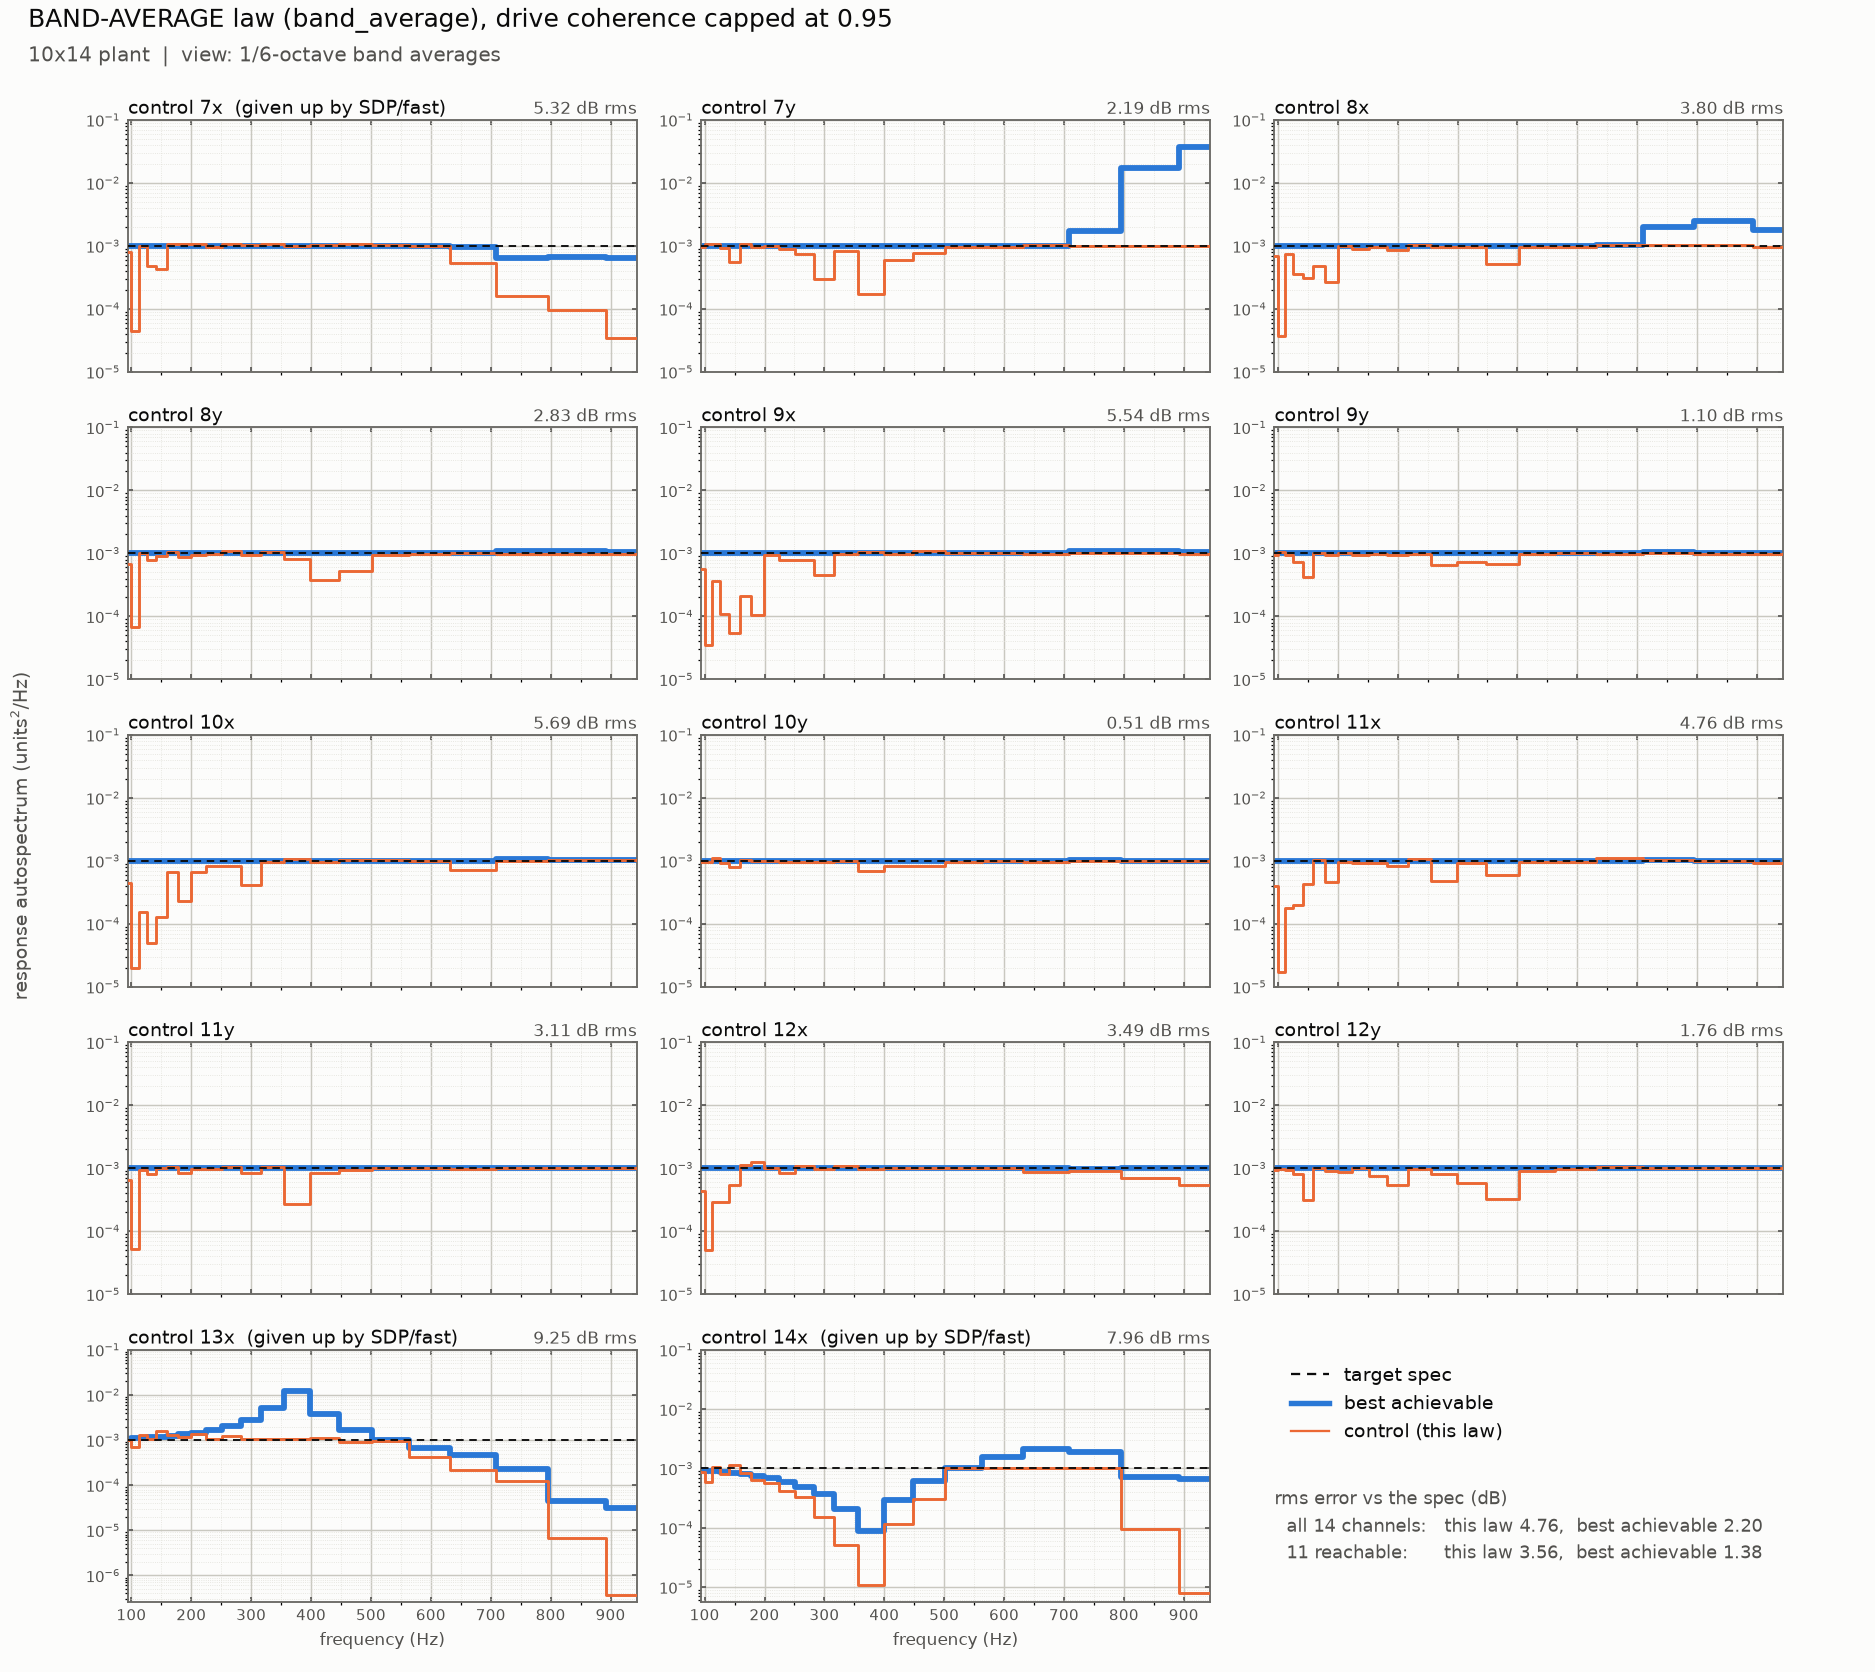
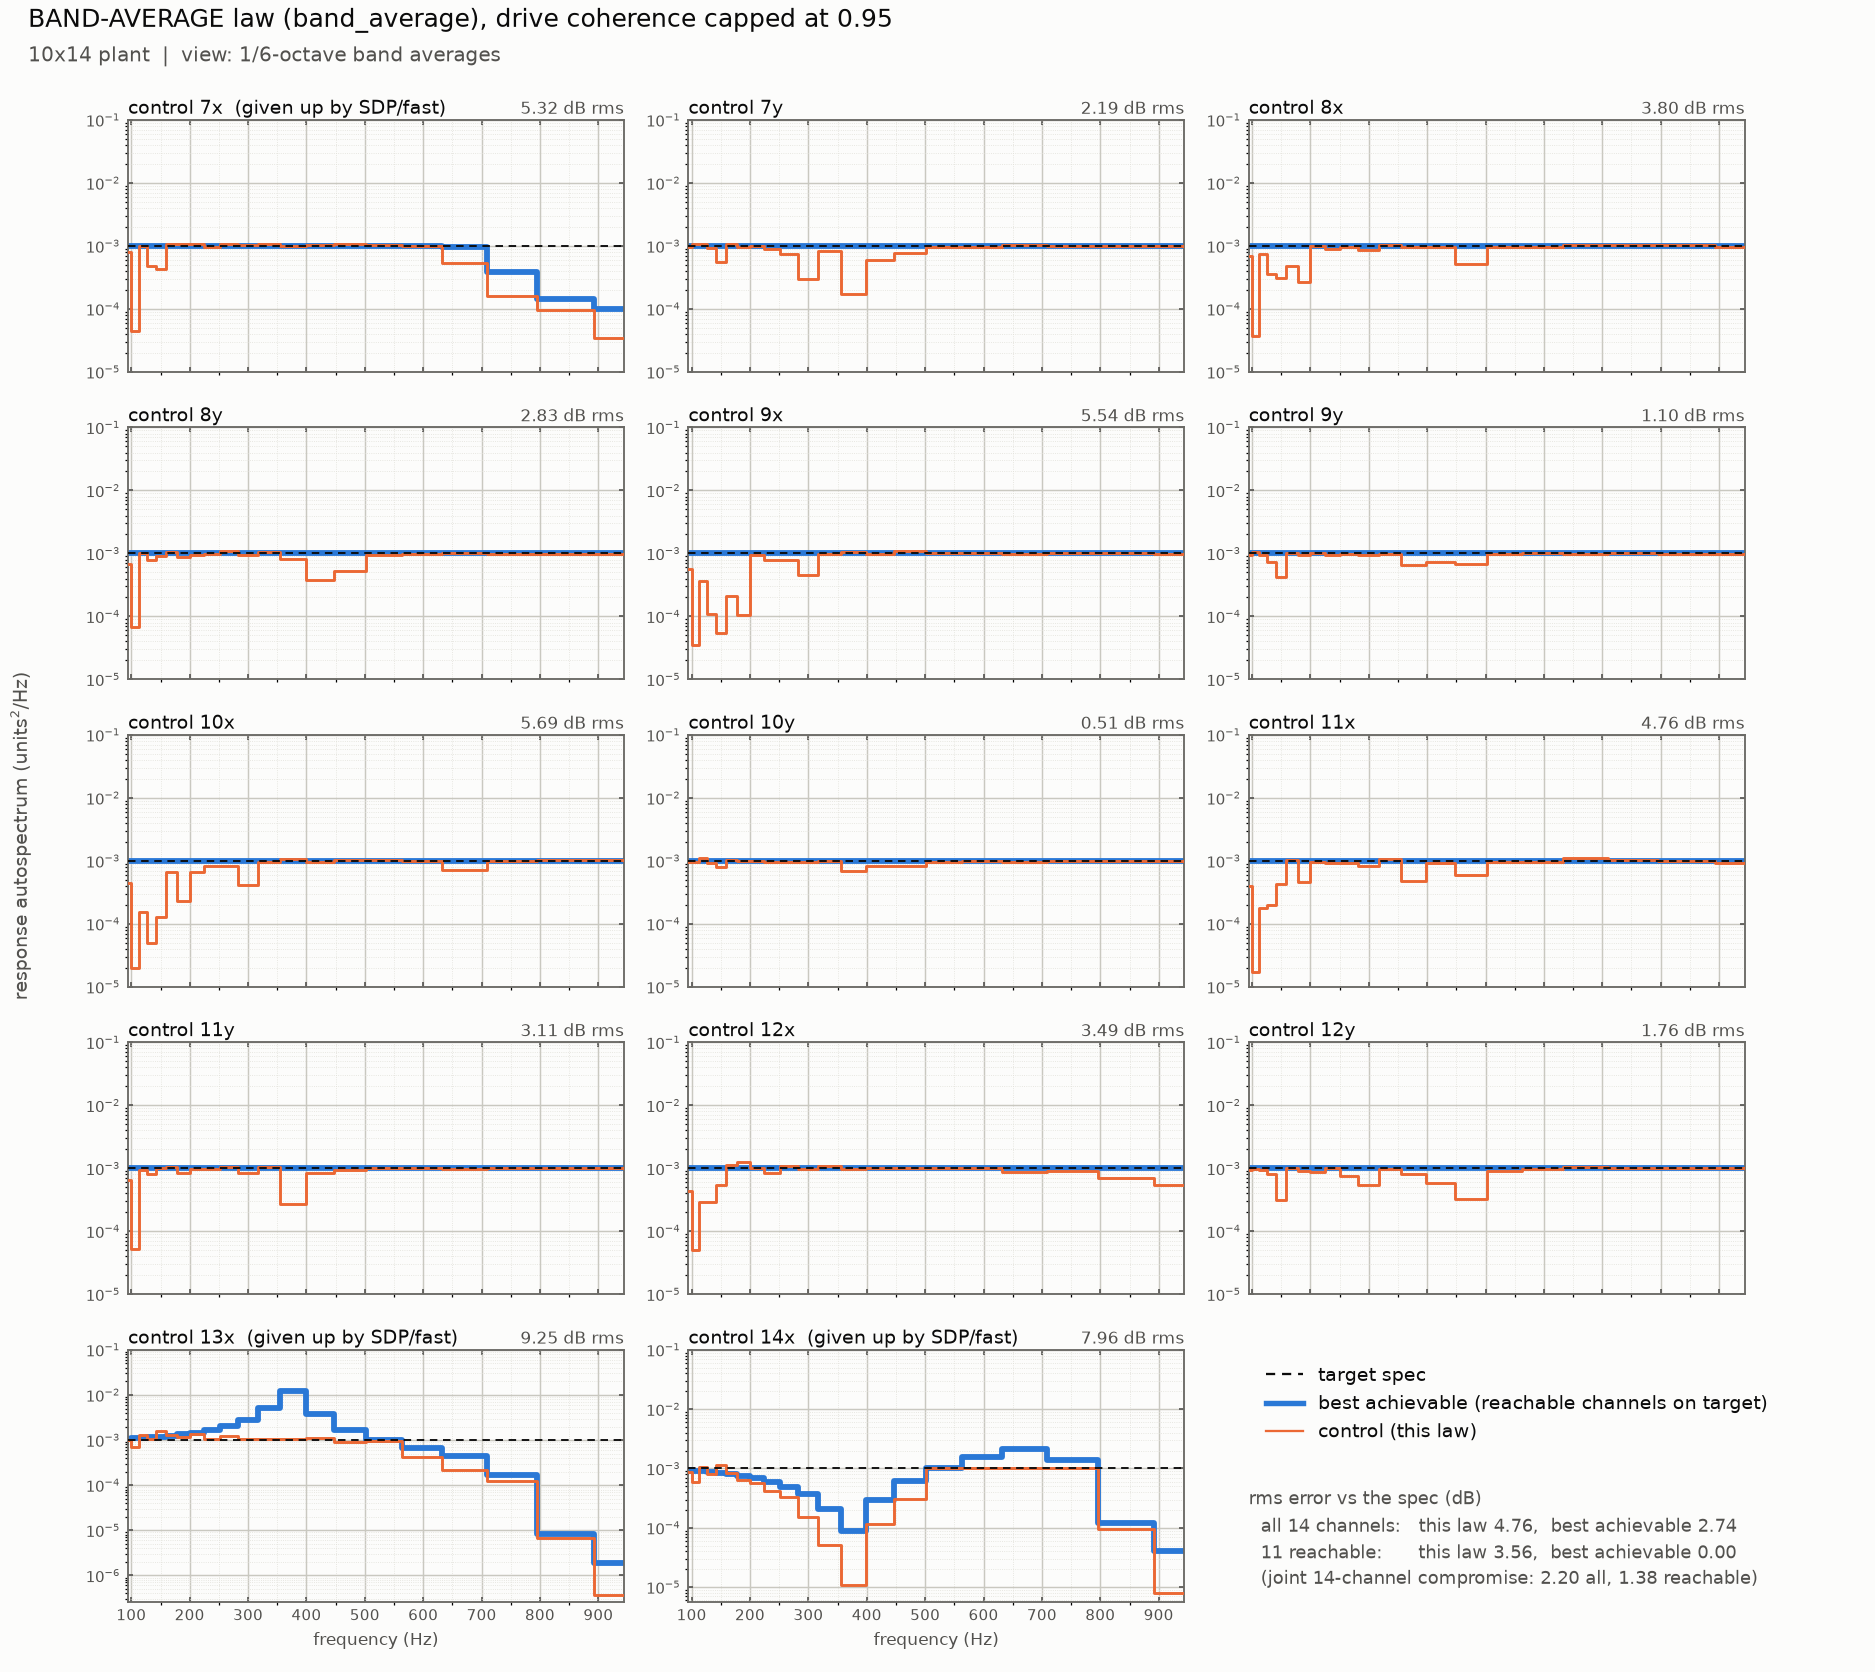
Plots: best achievable holds the reachable channels on target
The reference curve was the joint rms-dB optimum over all 14 channels, which trades the 11
channels the SDP/fast laws reach against the three they cannot, so on those 11 the control
could look better than 'best achievable'. reference_spectra() now solves, per line, for the
response with the reachable channels held on target (weighted 100:1, within 0.01 dB) and the
others as close as they can then get; the joint optimum is quoted in each plot's key and as
a row of the score tables. The SDP law is within 0.27 dB of the new reference on all 14.

diff --git a/control_laws/tests/plot_law_spectra.py b/control_laws/tests/plot_law_spectra.py
@@ -7,14 +7,17 @@ the target spec, the best achievable spec, and what the law produced.
 
 One PNG per law, one panel per control channel (file names: see SLUGS and plot_path):
   target spec      dashed, the specification autospectrum
-  best achievable  achievable_response.achievable_diagonal: per line, the diagonal that
-                   minimizes the rms dB error over ALL channels at once (the spec the rig
-                   runs are pointed at).  It trades error between channels, so on the
-                   channels a law can reach it may sit off the target where the law does not
+  best achievable the best a law could do, per line, with the channels the SDP and fast laws
+                   reach (11 of 14 on 10x14) HELD ON TARGET and the rest (7x, 13x, 14x on 10x14)
+                   as close as they can then get, in rms dB.  reference_spectra() solves it with
+                   achievable_response's dB residuals, weighted 100:1 toward the reachable channels.
+                   The key also quotes the JOINT optimum, achievable_response.achievable_diagonal:
+                   the best rms dB over all channels at once, which trades the reachable channels
+                   off against the others and so is not a floor for them
   control          the TRUE response autospectrum diag(H X H^H) after the last cycle
 
-Each law runs its defaults (band_average: df 5, octave order 6, drive RMS limit off), closed loop, as in compare_optdiag_frame.py (the FRF is held
-fixed, responses are 'measured' from n_frames Gaussian frames).  The octave law is switched
+Each law runs its defaults (band_average: df 5, octave order 6, drive RMS limit off), closed loop, as in
+compare_optdiag_frame.py (the FRF is held fixed, responses are 'measured' from n_frames Gaussian frames).  The octave law is switched
 into octave mode with set_test_level_db(0), since nothing in Rattlesnake does that yet.
 
 Run in the 'rattlesnake' conda env with PYTHONPATH=src.
@@ -35,7 +38,9 @@ sys.path.insert(0, HERE)
 sys.path.insert(0, os.path.dirname(HERE))
 import compare_optdiag_frame as cf                     # noqa: E402
 from frame_plant import frame_plant                    # noqa: E402
+import achievable_response as ar                       # noqa: E402
 from achievable_response import achievable_diagonal    # noqa: E402
+from scipy.optimize import least_squares               # noqa: E402
 from rattlesnake.utilities import load_control_module  # noqa: E402
 
 INK, INK2, GRID, SURFACE = '#0b0b0b', '#52514e', '#e1e0d9', '#fcfcfb'
@@ -77,6 +82,38 @@ def plot_path(outdir, plant, slug, view):
     return os.path.join(outdir, f'spectra_{plant}_{slug}_{view}.png')
 
 
+def _held_line(Hb, y, reach, weight, max_nfev=300):
+    """One line: diag(H X H^H) in rms dB, the `reach` channels weighted `weight` to 1."""
+    from_L = lambda v: ar._unpack(v, Hb.shape[1], Hb.shape[1])
+    N = Hb.shape[1]
+    y_log = np.log(np.maximum(y, 1e-300))
+    w = np.where(reach, weight, 1.0)
+    fun = lambda v: w*ar._resid(v, Hb, y_log, N, N)
+    jac = lambda v: w[:, None]*ar._jac(v, Hb, y_log, N, N)
+    best = None
+    for L0 in (ar._init_pinv(Hb[reach], y[reach], 1e-8), ar._init_pinv(Hb, y, 1e-8)):
+        sol = least_squares(fun, ar._pack(L0), jac=jac, method='trf', max_nfev=max_nfev)
+        if best is None or sol.cost < best.cost:
+            best = sol
+    return ar._diag_response(Hb, from_L(best.x))[0]
+
+
+def reference_spectra(p, lost, weight=100.0):
+    """(held, joint), each (F, M), NaN off the specified band.
+
+    held   best achievable with the reachable channels (~lost) held on target (weighted `weight`:1,
+           which keeps them within 0.01 dB) and the others as close as they can then get
+    joint  achievable_response.achievable_diagonal: best rms dB over all channels at once"""
+    H, sel = p['H'], p['band']
+    spec = np.real(np.einsum('fii->fi', p['spec']))
+    idx = np.flatnonzero(sel)
+    held = np.full(spec.shape, np.nan)
+    for i in idx:
+        held[i] = _held_line(H[i], spec[i], ~lost, weight)
+    joint = achievable_diagonal(H, spec, line_indices=idx, compute_minimax=False)['achieved']
+    return held, joint
+
+
 def response(H, X):
     return np.real(np.einsum('fmn,fnk,fmk->fm', H, X, H.conj()))
 
@@ -106,7 +143,7 @@ def panel(ax, f, target, best, got, label, given_up, err_db, steps=False):
     ax.set_title(f'{err_db:.2f} dB rms', loc='right', fontsize=8, color=INK2, pad=3)
 
 
-def figure(name, p, X, best, lost, names, plant, outpath, bands=None):
+def figure(name, p, X, best, lost, names, plant, outpath, bands=None, joint=None):
     """bands = (masks, centers): plot the 1/6-octave band AVERAGES (power mean over each band's lines)
     instead of every line."""
     f, sel = p['f'], p['band']
@@ -117,6 +154,7 @@ def figure(name, p, X, best, lost, names, plant, outpath, bands=None):
         masks, fb = bands
         grid = lambda a: np.array([a[m].mean(axis=0) for m in masks])
     spec, got, bst = grid(spec_full), grid(response(p['H'], X)), grid(best)
+    jnt = None if joint is None else grid(joint)
     err = np.sqrt(np.mean((10*np.log10(got/spec))**2, axis=0))
     M = spec.shape[1]
     ncol = 3
@@ -135,15 +173,16 @@ def figure(name, p, X, best, lost, names, plant, outpath, bands=None):
     handles = [plt.Line2D([], [], color=INK, lw=1.1, ls=(0, (4, 3))),
                plt.Line2D([], [], color=C_ACHIEVABLE, lw=2.6),
                plt.Line2D([], [], color=C_CONTROL, lw=1.1)]
-    key.legend(handles, ['target spec', 'best achievable', 'control (this law)'], loc='upper left',
+    key.legend(handles, ['target spec', 'best achievable (reachable channels on target)', 'control (this law)'], loc='upper left',
                frameon=False, fontsize=9, labelcolor=INK)
     reach = ~lost
     rms_db = lambda y, cols: np.sqrt(np.mean((10*np.log10(y[:, cols]/spec[:, cols]))**2))
     everyone = np.ones(M, dtype=bool)
+    joint_txt = '' if jnt is None else f'\n  (joint 14-channel compromise: {rms_db(jnt, everyone):.2f} all, {rms_db(jnt, reach):.2f} reachable)'
     key.text(0.0, 0.46,
              'rms error vs the spec (dB)\n'
              f'  all {M} channels:   this law {rms_db(got, everyone):.2f},  best achievable {rms_db(bst, everyone):.2f}\n'
-             f'  {int(reach.sum())} reachable:      this law {rms_db(got, reach):.2f},  best achievable {rms_db(bst, reach):.2f}',
+             f'  {int(reach.sum())} reachable:      this law {rms_db(got, reach):.2f},  best achievable {rms_db(bst, reach):.2f}' + joint_txt,
              transform=key.transAxes, fontsize=8.5, color=INK2, va='top', linespacing=1.5)
     fig.supylabel('response autospectrum (units$^2$/Hz)', fontsize=9, color=INK2, x=0.005)
     view = f"every {p['df']:g} Hz line" if bands is None else '1/6-octave band averages'
@@ -154,7 +193,7 @@ def figure(name, p, X, best, lost, names, plant, outpath, bands=None):
     plt.close(fig)
 
 
-def score_table(p, runs, lost, spec_d):
+def score_table(p, runs, lost, spec_d, refs=()):
     """Printed table: rms dB error per law, per line and per 1/6-octave band (100-1000 Hz)."""
     f, H, sel = p['f'], p['H'], p['band']
     with contextlib.redirect_stdout(io.StringIO()):
@@ -170,6 +209,10 @@ def score_table(p, runs, lost, spec_d):
         line = 10*np.log10(y[sel]/spec_d[sel])
         band = np.array([10*np.log10(y[m].mean(0)/spec_d[m].mean(0)) for m in masks])
         print(f'{label:72s} {rms(line, reach):14.2f} {rms(line, everyone):13.2f} {rms(band, reach):15.2f} {rms(band, everyone):13.2f}')
+    for label, y in refs:                                 # reference spectra scored the same way
+        line = 10*np.log10(y[sel]/spec_d[sel])
+        band = np.array([10*np.log10(y[m].mean(0)/spec_d[m].mean(0)) for m in masks])
+        print(f'{label:72s} {rms(line, reach):14.2f} {rms(line, everyone):13.2f} {rms(band, reach):15.2f} {rms(band, everyone):13.2f}')
 
 
 def main():
@@ -182,8 +225,6 @@ def main():
     p = frame_plant(plant)
     names = [f"{n}{'xy'[d-1]}" for n, d in p['controls']]
     spec_d = np.real(np.einsum('fii->fi', p['spec']))
-    print('best achievable (per line, rms dB over all channels) ...', flush=True)
-    best = achievable_diagonal(p['H'], spec_d, line_indices=np.flatnonzero(p['band']))['achieved']
     runs = []
     for label, cls, params in laws():
         print('running', label, flush=True)
@@ -191,10 +232,13 @@ def main():
     sel = p['band']
     final = np.array([np.sqrt(np.mean((10*np.log10(response(p['H'], X)[sel]/spec_d[sel]))**2, axis=0)) for _, X in runs])
     lost = np.all(final[:2] > 3.0, axis=0)               # channels the SDP and fast laws both give up
-    score_table(p, runs, lost, spec_d)
+    print('best achievable references ...', flush=True)
+    best, joint = reference_spectra(p, lost)
+    score_table(p, runs, lost, spec_d, refs=[('best achievable (reachable held on target)', best),
+                                               ('joint 14-channel compromise', joint)])
     for (label, X), short in zip(runs, SLUGS):
         path = plot_path(outdir, plant, short, 'lines')
-        figure(label, p, X, best, lost, names, plant, path)
+        figure(label, p, X, best, lost, names, plant, path, joint=joint)
         print('wrote', path)
 
 

diff --git a/control_laws/tests/plot_octave_exact_c.py b/control_laws/tests/plot_octave_exact_c.py
@@ -17,11 +17,11 @@ from achievable_response import achievable_diagonal
 p = frame_plant('10x14'); spec_d = np.real(np.einsum('fii->fi', p['spec']))
 names = [f"{n}{'xy'[d-1]}" for n, d in p['controls']]
 out = os.path.join(os.path.dirname(os.path.dirname(HERE)), 'examples', 'tendrive14resp', 'results', 'plots')
-best = achievable_diagonal(p['H'], spec_d, line_indices=np.flatnonzero(p['band']))['achieved']
 laws = pl.laws()
 X = {lab: cf.run(p, cls, par, 15, 20)['X'] for lab, cls, par in laws[:2]}          # SDP, fast -> the given-up set
 fin = np.array([np.sqrt(np.mean((10*np.log10(pl.response(p['H'], x)[p['band']]/spec_d[p['band']]))**2, axis=0)) for x in X.values()])
 lost = np.all(fin > 3.0, axis=0)
+best, joint = pl.reference_spectra(p, lost)
 shipped = cf.run(p, laws[2][1], pl.OCTAVE_PARAMS, 15, 20)['X']
 exact = cf.run(p, OctaveExactC, pl.OCTAVE_PARAMS, 15, 20)['X']
 f = p['f']
@@ -35,7 +35,7 @@ T0 = laws[2][0]                                  # the octave law as shipped
 for title, Xx, slug, view, b in ((T1, exact, 'octave_exactC_experiment', 'lines', None), (T1, exact, 'octave_exactC_experiment', 'bands', bands),
                                  (T0, shipped, 'octave_law', 'bands', bands)):
     path = pl.plot_path(out, '10x14', slug, view)
-    pl.figure(title, p, Xx, best, lost, names, '10x14', path, bands=b); print('wrote', path)
+    pl.figure(title, p, Xx, best, lost, names, '10x14', path, bands=b, joint=joint); print('wrote', path)
 
 reach = ~lost; everyone = np.ones(lost.size, bool)
 rms = lambda a, c: float(np.sqrt(np.mean(a[:, c]**2)))
@@ -44,5 +44,7 @@ for lab, Xx in (('SDP', X[laws[0][0]]), ('fast', X[laws[1][0]]), ('octave as shi
     y = pl.response(p['H'], Xx); line = 10*np.log10(y[p['band']]/spec_d[p['band']])
     band = np.array([10*np.log10(y[m].mean(0)/spec_d[m].mean(0)) for m in bands[0]])
     print(f"{lab:44s} {rms(line, reach):8.2f} {rms(line, everyone):8.2f} {rms(band, reach):8.2f} {rms(band, everyone):8.2f}")
-bb = np.array([10*np.log10(best[m].mean(0)/spec_d[m].mean(0)) for m in bands[0]])
-print(f"{'best achievable (per-line optimum over 14 ch)':44s} {'':8s} {'':8s} {rms(bb, reach):8.2f} {rms(bb, everyone):8.2f}")
+for lab, ref in (('best achievable (reachable held on target)', best), ('joint 14-channel compromise', joint)):
+    bb = np.array([10*np.log10(ref[m].mean(0)/spec_d[m].mean(0)) for m in bands[0]])
+    ll = 10*np.log10(ref[p['band']]/spec_d[p['band']])
+    print(f"{lab:44s} {rms(ll, reach):8.2f} {rms(ll, everyone):8.2f} {rms(bb, reach):8.2f} {rms(bb, everyone):8.2f}")

diff --git a/control_laws/tests/plot_bandavg_bands.py b/control_laws/tests/plot_bandavg_bands.py
@@ -25,11 +25,10 @@ p = frame_plant('10x14'); H, f, sel = p['H'], p['f'], p['band']
 spec_d = np.real(np.einsum('fii->fi', p['spec']))
 names = [f"{n}{'xy'[d-1]}" for n, d in p['controls']]
 out = os.path.join(os.path.dirname(os.path.dirname(HERE)), 'examples', 'tendrive14resp', 'results', 'plots')
-best = achievable_diagonal(H, spec_d, line_indices=np.flatnonzero(sel))['achieved']
 laws = pl.laws()
 runs = [(lab, cf.run(p, cls, par, 15, 20)['X']) for lab, cls, par in laws]
 fin = np.array([np.sqrt(np.mean((10*np.log10(pl.response(H, X)[sel]/spec_d[sel]))**2, axis=0)) for _, X in runs[:2]])
-lost = np.all(fin > 3.0, axis=0); reach = ~lost; everyone = np.ones(lost.size, bool)
+lost = np.all(fin > 3.0, axis=0); best, joint = pl.reference_spectra(p, lost); reach = ~lost; everyone = np.ones(lost.size, bool)
 
 # the band-average law's own band machinery
 with contextlib.redirect_stdout(io.StringIO()):
@@ -58,9 +57,10 @@ for lab, X in runs:
     y = pl.response(H, X)
     e2, e10, eo = band_err(y, masks2), band_err(y, masks10), own_err(y)
     print(f"{lab:72s} {rms(e2, reach):8.2f} {rms(e2, everyone):7.2f} {rms(e10, reach):13.2f} {rms(e10, everyone):12.2f} {rms(eo, reach):14.2f} {rms(eo, everyone):12.2f}")
-b2, b10 = band_err(best, masks2), band_err(best, masks10)
-print(f"{'best achievable':72s} {rms(b2, reach):8.2f} {rms(b2, everyone):7.2f} {rms(b10, reach):13.2f} {rms(b10, everyone):12.2f}")
+for lab, ref in (('best achievable (reachable held on target)', best), ('joint 14-channel compromise', joint)):
+    b2, b10 = band_err(ref, masks2), band_err(ref, masks10)
+    print(f"{lab:72s} {rms(b2, reach):8.2f} {rms(b2, everyone):7.2f} {rms(b10, reach):13.2f} {rms(b10, everyone):12.2f}")
 
 for (lab, X), slug in ((runs[3], pl.SLUGS[3]), (runs[4], pl.SLUGS[4])):
     path = pl.plot_path(out, '10x14', slug, 'bands')
-    pl.figure(lab, p, X, best, lost, names, '10x14', path, bands=(masks10, cent10)); print('wrote', path)
+    pl.figure(lab, p, X, best, lost, names, '10x14', path, bands=(masks10, cent10), joint=joint); print('wrote', path)
